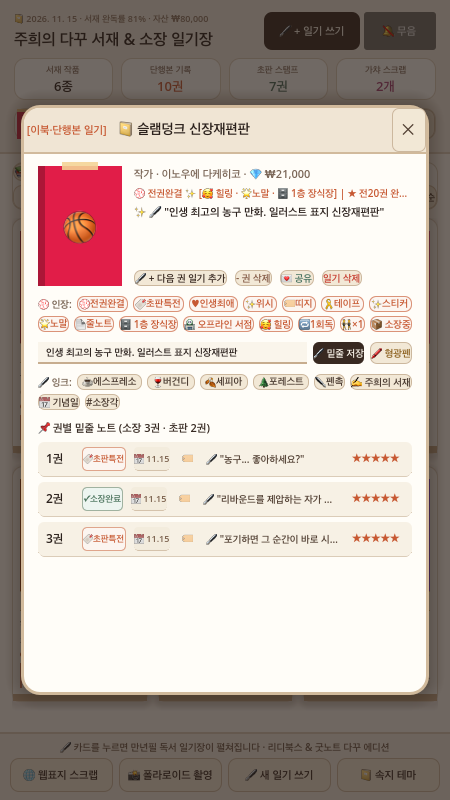
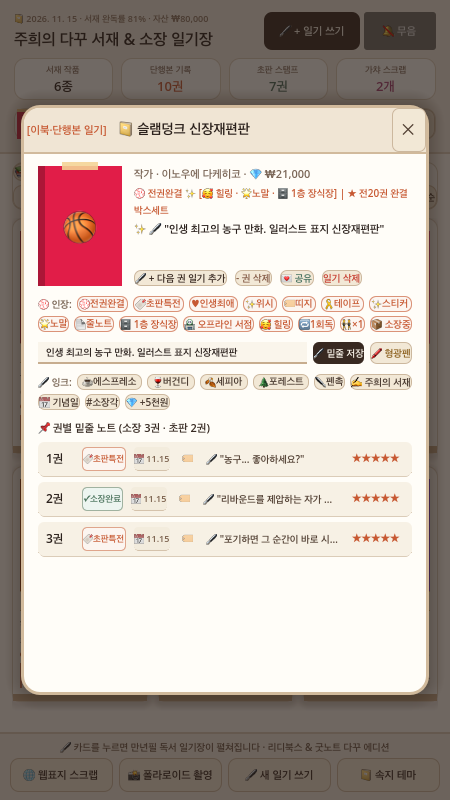
feat(game02): Sprint 39 TagLabel autowrap & one-tap estimated value boost

Changed region(s): [[0.28, 0.25, 0.84, 0.3125], [0.28, 0.4688, 0.3733, 0.5312], [0.8711, 0.2188, 0.9022, 0.25]]

diff --git a/game02/index.html b/game02/index.html
@@ -296,6 +296,7 @@
                             <button id="possession-cycle-btn" onclick="cyclePossessionState()" class="px-2 py-1 rounded-lg bg-[#efe7da] hover:bg-[#e2d6c5] text-[#2c221e] text-[10px] font-bold cursor-pointer">📦 소장중</button>
                             <button id="date-stamp-btn" onclick="stampPurchaseDate()" class="px-2 py-1 rounded-lg bg-[#efe7da] hover:bg-[#e2d6c5] text-[#2c221e] text-[10px] font-bold cursor-pointer">📅 기념일</button>
                             <button id="tag-cycle-btn" onclick="cycleCustomTag()" class="px-2 py-1 rounded-lg bg-[#efe7da] hover:bg-[#e2d6c5] text-[#2c221e] text-[10px] font-bold cursor-pointer">#소장각</button>
+                            <button id="value-boost-btn" onclick="boostEstimatedValue()" class="px-2 py-1 rounded-lg bg-[#efe7da] hover:bg-[#e2d6c5] text-[#2c221e] text-[10px] font-bold cursor-pointer">💎 +5천원</button>
                             <button onclick="copyBookQuoteCard()" class="px-2 py-1 rounded-lg bg-[#efe7da] hover:bg-[#e2d6c5] text-[#2c221e] text-[10px] font-bold cursor-pointer">💌 감상 카드 공유</button>
                             <button onclick="closeJournalModal()" class="w-7 h-7 rounded-full bg-[#efe7da] hover:bg-[#e2d6c5] text-[#5c4938] text-xs font-bold cursor-pointer">✕</button>
                         </div>
@@ -704,6 +705,15 @@
             item.custom_tag = CUSTOM_TAG_PRESETS[(idx + 1) % CUSTOM_TAG_PRESETS.length];
             const btn = document.getElementById('tag-cycle-btn');
             if (btn) btn.textContent = item.custom_tag;
+        }
+
+        function boostEstimatedValue() {
+            const item = ITEMS.find(x => x.id === activeId);
+            if (!item) return;
+            const base = item.estimated_value || (item.category === 'manga' ? Math.max(1, (item.volumes || []).length) * 7000 : 5000);
+            item.estimated_value = base + 5000;
+            const btn = document.getElementById('value-boost-btn');
+            if (btn) btn.textContent = `💎 ₩${item.estimated_value.toLocaleString()}`;
         }
 
         const SOURCE_PRESETS = ["🏪 오프라인 서점", "🇯🇵 직구/해외", "🎁 선물", "🎪 팝업/행사", "📦 온라인 서점"];

diff --git a/game02/SPRINT_LOG.md b/game02/SPRINT_LOG.md
@@ -5,6 +5,22 @@
 
 ---
 
+## 🚀 [Sprint 39] 모달 태그·띠지 줄바꿈 개선(`autowrap_mode = 3`) & 소장품 추정 가치 +₩5,000 원터치 조정(`💎 +5천원`)
+- **시각**: 2026-11-15 19:18 KST
+- **1. 다꾸러 3인 VOC (수집러 A · 가챠러 B · 미니멀러 C)**
+  - **만년필 다꾸러 A**: *"일기장 모달 상단의 빨간 태그·띠지 문구(`TagLabel`)가 한 줄 말줄임(`...`)으로 잘리는데, 자연스럽게 줄바꿈되어 띠지 문구까지 끝까지 다 읽히면 좋겠어요!"*
+  - **가챠 수집러 B**: *"한정판이나 프리미엄 시세가 붙은 소장품의 추정 가치를 모달 안에서 `💎 +5천원` 원터치로 바로 올려서 서재 자산에 반영할 수 있으면 좋겠습니다."*
+  - **미니멀 수집러 C**: *"가치를 조정하자마자 모달 상단의 `💎 ₩...`과 메인 헤더의 `자산 ₩...`이 동시에 실시간 갱신되면 직관적입니다."*
+- **2. 기획 & UI/UX & Godot 4.6 개발 내역**
+  - **모달 태그·띠지 줄바꿈 개선(`detail_modal.tscn`)**: `TagLabel`의 `text_overrun_behavior = 3`을 `autowrap_mode = 3`(`AUTOWRAP_WORD_SMART`)으로 전환해 띠지 문구 잘림 현상 해소
+  - **소장품 추정 가치 +₩5,000 원터치 조정(`ValueBtn` / `boost_estimated_value`)**: `collection_item.gd`에 `boost_estimated_value(5000)` 추가, `detail_modal.tscn` `InkRow`에 `💎 +5천원` 버튼 배치 및 `detail_modal.gd`에서 모달·헤더 총 자산 실시간 동기화
+  - **HTML 인터랙티브 목업 동기화**: `game02/index.html`에 `#value-boost-btn` / `boostEstimatedValue()` 동기화 완료
+- **3. TDD & QA 검증**
+  - `tests/test_main_integration.gd`에 Sprint 39 `TagLabel autowrap_mode` 및 추정 가치 실시간 업 검증 추가 → 3개 헤드리스 테스트 스위트 전수 100% PASS (스크립트 에러 0건)
+  - Metal 렌더러 최신 스크린샷(`godot_app_screen.png`, `godot_modal_screen.png`) 캡처 완료
+
+---
+
 ## 🚀 [Sprint 38] 커스텀 태그·보관위치·입수처 통합 검색 · 모달 추정 가치 표시 · 감상 카드 서명·태그 공유
 - **시각**: 2026-11-15 18:58 KST
 - **1. 다꾸러 3인 VOC (수집러 A · 가챠러 B · 미니멀러 C)**
